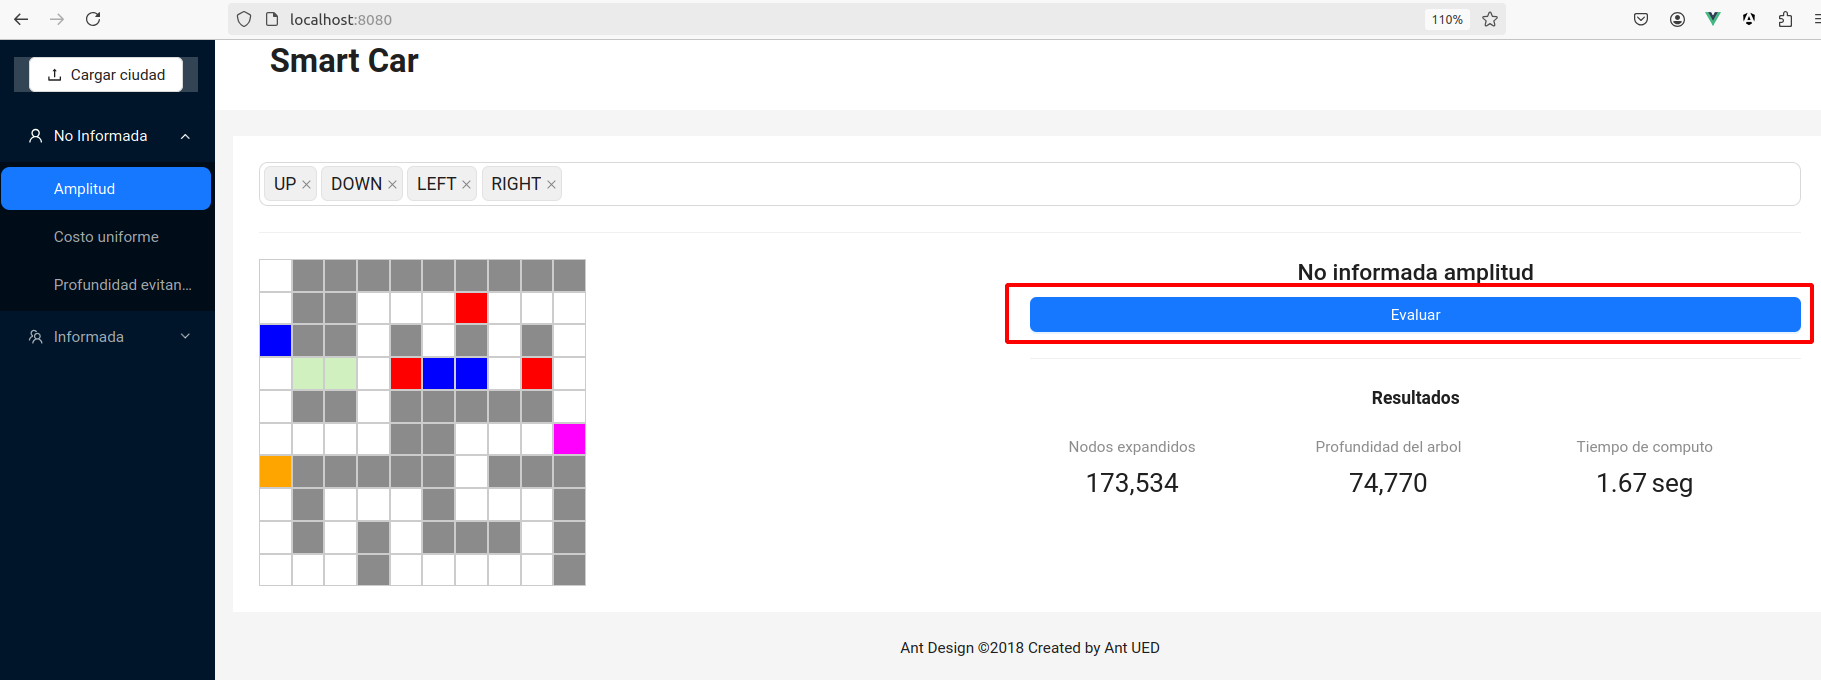
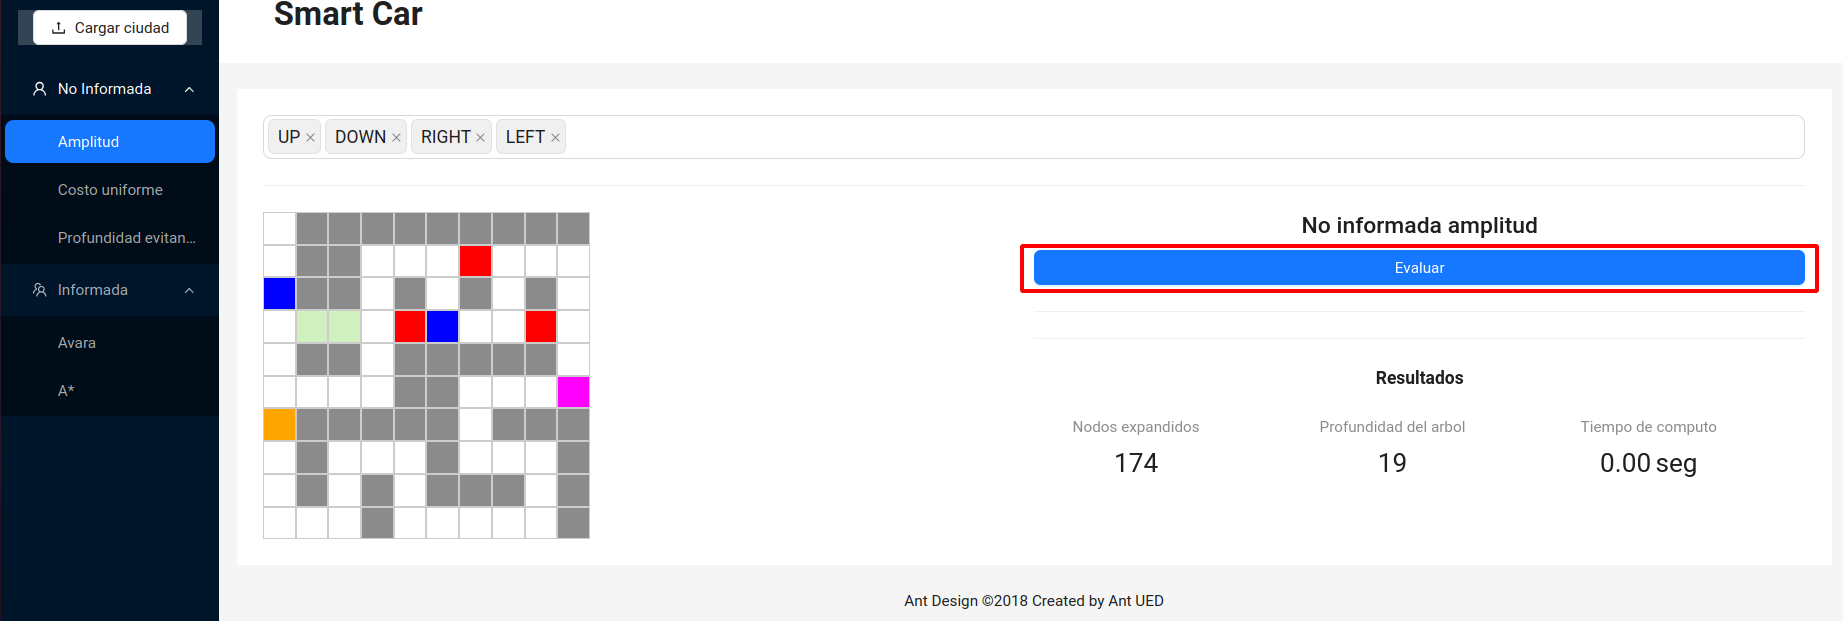
docs: improve readme

diff --git a/README.md b/README.md
@@ -10,6 +10,10 @@ presenta una abstracción de una ciudad inteligente.
 
 ![City](./imgs/city.png)
 
+## Requisitos
+
+- [Docker Compose](https://docs.docker.com/compose/install/)
+
 ## Ejecución
 
 Crear las imágenes y ejecutar los contenedores:
@@ -24,11 +28,17 @@ Asegurate de que [http://localhost:5000](http://localhost:5000) y [http://localh
 
 Carga tu ciuidad:
 
+**Algunos ejemplos de ciudades en la carpeta [test_files](https://github.com/FSHLL/smart-car/tree/main/test_files)**
+
 ![Upload](./imgs/upload.png)
 
 Selecciona el algoritmo:
 
 ![Select](./imgs/select.png)
+
+Ajusta el orden de los operadores si lo deseas:
+
+![Operators](./imgs/operators.png)
 
 Evalúa la solución:
 
